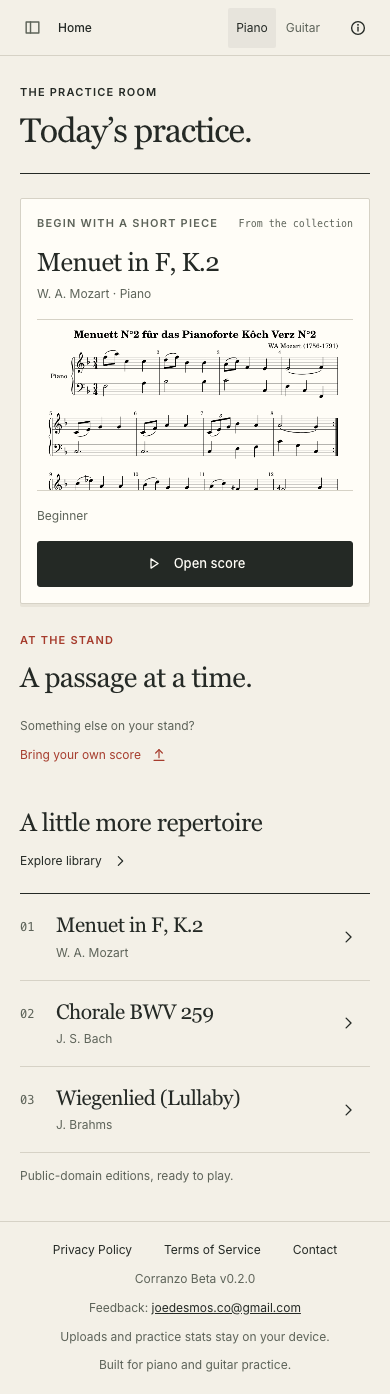
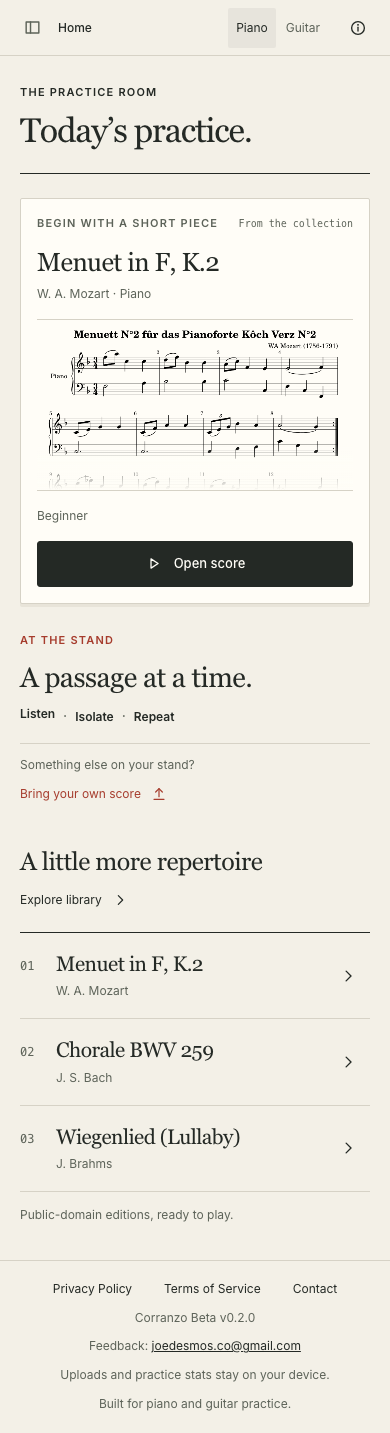
Polish Corranzo musician UI: journal hierarchy, ruled selects, mobile stand, excerpt crop, listening cues
Final visual critique pass above ba66f1ba5c. No redesign, no features.
See docs/musician-ui/POLISH.md for the full critique record.

(cherry picked from commit 590ecb4efd959725ccec05b6faa5fecf5dba2b7c)

diff --git a/src/components/profile/ProfileView.jsx b/src/components/profile/ProfileView.jsx
@@ -12,6 +12,9 @@ import ManualPracticeLog from './ManualPracticeLog.jsx'
 
 function formatDuration(seconds) {
   const totalSeconds = Math.max(0, Math.floor(Number(seconds) || 0))
+  if (totalSeconds <= 0) {
+    return '—'
+  }
   if (totalSeconds < 60) {
     return `${totalSeconds}s`
   }
@@ -40,10 +43,17 @@ function formatDate(timestamp) {
 }
 
 function StatCard({ label, value }) {
+  // Placeholder values ("None yet", "—") are quiet by design: an empty
+  // journal should invite the single Start timer action, not headline absence.
+  const isPlaceholder = value === 'None yet' || value === '—'
   return (
     <div className="profile-stat">
       <span className="profile-stat__label">{label}</span>
-      <span className="profile-stat__value">{value}</span>
+      <span
+        className={`profile-stat__value${isPlaceholder ? ' profile-stat__value--placeholder' : ''}`}
+      >
+        {value}
+      </span>
     </div>
   )
 }
@@ -168,7 +178,7 @@ export default function ProfileView() {
         />
         <StatCard
           label="Sessions you’ve logged"
-          value={viewStats.manualSessionsCompleted ?? 0}
+          value={(viewStats.manualSessionsCompleted ?? 0) > 0 ? viewStats.manualSessionsCompleted : '—'}
         />
       </div>
 
@@ -223,17 +233,19 @@ export default function ProfileView() {
 
       <footer className="profile-footer">
         <p>Your practice journal stays in this browser. Clearing browser data removes it.</p>
-        <button
-          type="button"
-          className="profile-footer__reset"
-          onClick={() => {
-            if (window.confirm('Clear all local practice stats? This cannot be undone.')) {
-              resetAllStats()
-            }
-          }}
-        >
-          Clear stats
-        </button>
+        {hasPieceActivity || hasManualHistory || (viewStats.autoPracticeSeconds ?? 0) > 0 ? (
+          <button
+            type="button"
+            className="profile-footer__reset"
+            onClick={() => {
+              if (window.confirm('Clear all local practice stats? This cannot be undone.')) {
+                resetAllStats()
+              }
+            }}
+          >
+            Clear stats
+          </button>
+        ) : null}
       </footer>
     </main>
   )

diff --git a/src/components/home/home.css b/src/components/home/home.css
@@ -12,6 +12,9 @@
 .cz-home__work h2 { font: 400 clamp(26px, 3vw, 38px)/1.12 var(--cz-font-edition); letter-spacing: -.025em; margin: 0; overflow-wrap: anywhere; }
 .cz-home__work p { font-size: 12px; color: var(--cz-sheet-muted); margin: 8px 0 0; }
 .cz-home__score-stage { height: 212px; position: relative; overflow: hidden; margin: 0 24px; border-block: 1px solid var(--cz-sheet-line); }
+/* The excerpt is cropped by design; a soft falloff at the cut keeps the
+sliced system from reading as a rendering accident. Solid color only. */
+.cz-home__score-stage::after { content: ''; position: absolute; left: 0; right: 0; bottom: 0; height: 46px; background: linear-gradient(to bottom, transparent, var(--cz-sheet-raised)); pointer-events: none; }
 .cz-score-cover { position: absolute; width: 100%; inset: 0 0 auto; pointer-events: none; }
 .cz-score-cover canvas { width: 100% !important; height: auto !important; mix-blend-mode: multiply; }
 .cz-score-cover .react-pdf__Page { background: transparent !important; }
@@ -47,7 +50,14 @@
   .cz-home__stand-footer .cz-collection-button { width: 100%; }
   .cz-home__margin { padding: 0; }
   .cz-home__margin h2 { max-width: none; margin-bottom: 12px; }
-  .cz-home__practice-prompts { display: none; }
-  .cz-home__bring { margin-top: 0; border: 0; }
+  /* Narrow screens keep the three working verbs as one quiet line instead of
+  hiding the list and orphaning its heading above the import link. */
+  .cz-home__practice-prompts { display: flex; gap: 8px; padding: 0; border-left: 0; }
+  .cz-home__practice-prompts li + li { margin-top: 0; }
+  .cz-home__practice-prompts li { display: flex; align-items: baseline; gap: 8px; }
+  .cz-home__practice-prompts li + li::before { content: '·'; color: var(--cz-sheet-muted); }
+  .cz-home__practice-prompts span { font-size: 12px; }
+  .cz-home__practice-prompts p { display: none; }
+  .cz-home__bring { margin-top: 16px; border-top: 1px solid var(--cz-sheet-line); padding-top: 12px; }
   .cz-home__section-heading { align-items: start; flex-direction: column; gap: 4px; }
 }

diff --git a/src/styles/collection.css b/src/styles/collection.css
@@ -94,6 +94,36 @@
   .cz-shell[data-view='library'] .practice-library__filters { justify-content: start; }
 }
 .cz-shell[data-view='library'] :is(.multi-upload__cta, .upload-btn--practice) { background: var(--cz-ink); color: var(--cz-sheet-raised); }
+
+/* Single-selects on paper use the same ruled choice language as the library
+tabs: one shared selection idiom per surface instead of nested pill boxes
+competing with tab underlines. Pill boxes stay on the dark desk. */
+.cz-shell:is([data-view='home'], [data-view='library'], [data-view='import'], [data-view='profile'], [data-view='settings']) :is(.cz-segmented, .cz-settings .instrument-selector) {
+  gap: 20px;
+  padding: 0;
+  border: 0;
+  border-bottom: 1px solid var(--cz-sheet-line);
+  border-radius: 0;
+  background: transparent;
+}
+.cz-shell:is([data-view='home'], [data-view='library'], [data-view='import'], [data-view='profile'], [data-view='settings']) :is(.cz-segmented__option, .cz-settings .instrument-selector__option) {
+  min-height: 44px;
+  padding: 0 2px 10px;
+  border: 0;
+  border-bottom: 2px solid transparent;
+  border-radius: 0;
+  background: transparent;
+  font-weight: 500;
+}
+.cz-shell:is([data-view='home'], [data-view='library'], [data-view='import'], [data-view='profile'], [data-view='settings']) :is(.cz-segmented__option[aria-pressed='true'], .cz-settings .instrument-selector__option--active) {
+  border-bottom-color: var(--cz-vermilion);
+  background: transparent;
+  color: var(--cz-ink);
+}
+.cz-shell:is([data-view='home'], [data-view='library'], [data-view='import'], [data-view='profile'], [data-view='settings']) :is(.cz-segmented__option:hover:not(:disabled):not([aria-pressed='true']), .cz-settings .instrument-selector__option:hover) {
+  background: transparent;
+  color: var(--cz-vermilion);
+}
 .cz-shell[data-view='library'] .upload-btn--practice:hover { background: var(--cz-ink-raised); color: var(--cz-sheet-raised); }
 
 /* Final shell polish: resilient titles, targets and restrained saved-score states. */

diff --git a/src/components/practice/VisualPracticeView.jsx b/src/components/practice/VisualPracticeView.jsx
@@ -444,6 +444,16 @@ function describeTargetNotes(targetGroup, strings, tabPositions, instrumentId = 
     .join(' + ')
 }
 
+/**
+ * Preview mode is a listening cue, not an instruction: "Play both notes
+ * together" becomes "Both notes together". Stripping the verb without
+ * recapitalizing left a lowercase fragment that read like a debug string.
+ */
+function toListeningCue(label) {
+  const cue = String(label ?? '').replace(/^Play /, '')
+  return cue ? cue.charAt(0).toUpperCase() + cue.slice(1) : cue
+}
+
 const VisualTargetHeader = memo(function VisualTargetHeader({
   targetGroup,
   targetIndex,
@@ -492,7 +502,7 @@ const VisualTargetHeader = memo(function VisualTargetHeader({
         {isPreview ? 'Listen for' : isWaitForYou ? 'Play this' : 'Next up'}
       </span>
       <strong className="visual-practice__target-notes">
-        {isPreview ? describeTargetNotes(targetGroup, strings, tabPositions, instrumentId).replace(/^Play /, '') : describeTargetNotes(targetGroup, strings, tabPositions, instrumentId)}
+        {isPreview ? toListeningCue(describeTargetNotes(targetGroup, strings, tabPositions, instrumentId)) : describeTargetNotes(targetGroup, strings, tabPositions, instrumentId)}
         {targetGroup.isChord && micChordSequence ? ' (one at a time)' : ''}
       </strong>
       <span className="visual-practice__target-meta">

diff --git a/src/components/LibraryPanel.jsx b/src/components/LibraryPanel.jsx
@@ -117,7 +117,9 @@ export default function LibraryPanel({
         <span className="cz-edition-label">Corranzo / Library</span>
         <h1 className="library-panel__tagline">{selectedTab === LIBRARY_TABS.PRACTICE ? 'Repertoire.' : 'Your scores.'}</h1>
         <p className="library-panel__browser-hint" role="note">
-          Studies, familiar pieces, and something to grow into.
+          {selectedTab === LIBRARY_TABS.PRACTICE
+            ? 'Studies, familiar pieces, and something to grow into.'
+            : `Imported PDFs for ${activeInstrument.label.toLowerCase()}, kept on this device.`}
         </p>
       </header>
 
@@ -241,7 +243,7 @@ export default function LibraryPanel({
           <div className="practice-library__grid library-panel__uploads-grid">
             <article className="practice-piece-card practice-piece-card--add-files">
               <div className="practice-piece-card__main">
-                <p className="practice-piece-card__meta">Your music</p>
+                <p className="practice-piece-card__meta">{activeInstrument.label} · PDF</p>
                 <h3 className="practice-piece-card__title">Add to your repertoire.</h3>
                 <p className="practice-piece-card__teaches">Choose a PDF. We’ll help you get it ready to play.</p>
               </div>

diff --git a/src/components/shell/SettingsView.jsx b/src/components/shell/SettingsView.jsx
@@ -73,20 +73,9 @@ export default function SettingsView({
           </Button>
         </Panel>
 
-        <Panel title="About" headingLevel={2} sub="Corranzo is local-first. There is no account and nothing uploads.">
+        <Panel title="About" headingLevel={2} sub="Corranzo is local-first. There is no account and nothing uploads. Legal notes live in the page footer.">
           <div className="cz-settings__actions">
             <FeedbackLink label="Email feedback" />
-            <span className="cz-settings__legal">
-              <Button variant="ghost" size="sm" onClick={() => onNavigate('privacy')}>
-                Privacy
-              </Button>
-              <Button variant="ghost" size="sm" onClick={() => onNavigate('terms')}>
-                Terms
-              </Button>
-              <Button variant="ghost" size="sm" onClick={() => onNavigate('contact')}>
-                Contact
-              </Button>
-            </span>
           </div>
         </Panel>
       </div>

diff --git a/src/styles/import.css b/src/styles/import.css
@@ -26,6 +26,9 @@
 .score-import-how strong { display: block; font-size: 14px; font-weight: 500; color: var(--cz-ink); margin-bottom: 3px; }
 .score-import-empty { padding: 24px 0 32px; }
 .score-import :is(.score-import-empty, .score-import-processing, .score-import-ready, .score-import-message) h2 { font: 400 33px/1.15 var(--cz-font-edition); letter-spacing: -.025em; margin: 12px 0 16px; }
+/* Guidance stays subordinate to the page's single h1. Copy unchanged. Must
+follow the group rule above: equal specificity, later source order wins. */
+.score-import .score-import-empty h2 { font-size: 25px; }
 .score-import-empty p:not(.cz-edition-label) { max-width: 340px; font-size: 14px; color: var(--cz-sheet-muted); }
 .score-import-empty p:last-child { margin-top: 28px; font-size: 12px; }
 .score-import-advanced, .score-import-diagnostics { border-top: 1px solid var(--cz-sheet-line); margin-top: 28px; padding-top: 10px; font-size: 12px; color: var(--cz-sheet-muted); }

diff --git a/src/components/shell/shell.css b/src/components/shell/shell.css
@@ -68,7 +68,6 @@
 .cz-settings__label { margin: 0; font-weight: 500; color: var(--sf-text-primary); }
 .cz-settings__hint { margin: 4px 0 0; font-size: 13px; color: var(--sf-text-muted); }
 .cz-settings__actions { display: flex; align-items: center; justify-content: space-between; gap: 16px; flex-wrap: wrap; }
-.cz-settings__legal { display: flex; flex-wrap: wrap; gap: 4px; }
 .cz-settings :is(.cz-btn, .cz-segmented__option, .instrument-selector__option) { min-height: 44px; }
 .cz-settings .feedback-link { color: var(--cz-vermilion); }
 

diff --git a/src/styles/profile.css b/src/styles/profile.css
@@ -97,6 +97,15 @@
 .profile-stat__value {
   color: var(--sf-text-primary);
   font: 400 24px/1.3 var(--cz-font-edition);
+  font-variant-numeric: tabular-nums;
+}
+
+.profile-stat__value--placeholder {
+  font-family: var(--cz-font-sans);
+  font-size: 14px;
+  font-weight: 400;
+  letter-spacing: 0;
+  color: var(--sf-text-faint);
 }
 
 .profile-empty {

diff --git a/docs/musician-ui/POLISH.md b/docs/musician-ui/POLISH.md
@@ -1,0 +1,130 @@
+# Corranzo polish pass — final visual critique
+
+Follow-up to REPORT.md, on `codex/corranzo-musician-ui-redesign` above `ba66f1ba5c`.
+No redesign, no feature changes, no new visual system. Targeted fixes only.
+Guitar and main untouched; nothing merged.
+
+## 1. What was already strong
+
+- **Repertoire rows** (Library + Home collection): ruled, mono-numbered, serif work
+  titles. Distinctive without the logo. Untouched.
+- **Practice desk**: dark, score-first, tempo as a printed mark, live bar
+  reference, restrained loop bracket. Untouched except one copy fragment (below).
+- **Tempo dialog**: large BPM readout, 50/75/100% steps, honest copy. Untouched.
+- **Journal with notes**: indented session notes with bar references read like a
+  real practice diary. Untouched.
+- **Restraint overall**: no fake paper, no decorative notation, no invented
+  statistics. Nothing added.
+
+## 2. Remaining AI-looking issues found
+
+1. Note-guide Preview header rendered `both notes together` — a lowercase
+   fragment left by stripping `Play ` from the instruction string. Read like a
+   debug string, not a listening cue.
+2. Uploads tab kept the library lede (`Studies, familiar pieces, and something
+   to grow into.`) and labeled its import card `Your music`, duplicating the
+   section eyebrow. Wrong context, triple naming.
+3. Empty journal headlined absence twice (`None yet` in large serif, twice),
+   rendered zero totals as `0s`/`0` (reads `OS`/`O` in serif), and showed a
+   `Clear stats` button with nothing to clear. Several elements shouted equally;
+   no single focal action.
+4. Settings About repeated the global footer's Privacy/Terms/Contact links a
+   few pixels above the global footer.
+5. Settings `Dark/Light` and `Piano/Guitar` selects used nested pill boxes that
+   competed with the ruled tab language used everywhere else on paper.
+6. Home on phones hid the practice prompts but kept their heading, orphaning
+   `A passage at a time.` above a lone import link.
+7. Home featured excerpt sheared mid-system with a hard edge, reading as a
+   rendering accident rather than an intentional crop.
+8. Import paired two large serif headlines (`Bring your score.` 46px + `A clear
+   page. A better start.` 33px) that competed instead of guide.
+
+## 3. Exact targeted changes made
+
+- `src/components/practice/VisualPracticeView.jsx` — new `toListeningCue`
+  helper: strip `Play ` then recapitalize (`Both notes together`). Pedagogy
+  instruction strings unchanged; `pianoPracticeInstructions` tests unaffected.
+- `src/components/LibraryPanel.jsx` — tab-specific hero hint for Uploads
+  (`Imported PDFs for {instrument}, kept on this device.`); import-card meta
+  `Your music` becomes `{Instrument} · PDF`.
+- `src/components/profile/ProfileView.jsx` — `formatDuration(0)` renders `—`;
+  zero session count renders `—`; `StatCard` demotes `None yet`/`—` to quiet
+  14px sans (`profile-stat__value--placeholder`); `Clear stats` only renders
+  when any history exists.
+- `src/styles/profile.css` — placeholder stat style + tabular figures for stat
+  values (durations are timing, so tabular numerals fit the type system).
+- `src/components/shell/SettingsView.jsx` — removed in-page legal button row;
+  About sub now points at the page footer. `Button` import still used.
+- `src/components/shell/shell.css` — removed the now-unused
+  `.cz-settings__legal` rule.
+- `src/styles/collection.css` — paper-surface single-selects (`.cz-segmented`,
+  Settings `.instrument-selector`) use the ruled tab idiom: no boxes, 2px
+  vermilion underline for the choice. Pill boxes remain on the dark desk.
+  `SegmentedControl` is only used in Settings (+ dev sandbox), so scope is safe.
+- `src/components/home/home.css` — on phones the prompts collapse to one quiet
+  line (`Listen · Isolate · Repeat`) instead of disappearing; excerpt stage gets
+  a solid-color falloff so the crop reads as intentional. No gradients
+  introduced elsewhere; the fade is a paper-to-paper dissolve on one element.
+- `src/styles/import.css` — import guidance `h2` demoted to 25px (copy
+  unchanged; rule placed after the shared group rule it refines).
+
+## 4. Deliberately left unchanged
+
+- Practice transport/dock: mode tabs vs Play have a working hierarchy; loop and
+  completion states are honest. No restyle.
+- Library Practice-tab header (`Piano` eyebrow + `Practice Library` title):
+  real hierarchy (instrument scope + toolbar anchor), not duplication.
+- Dual footers/content, header Import duplication, sidebar numbering, global
+  footer email: honest beta chrome, out of scope for a polish pass.
+- Advanced/diagnostic accordions: denser legacy layouts, acknowledged in
+  REPORT.md; restyling them would risk behavior and is not polish.
+- Phone dense-score readability: zoom remains the honest answer; nothing shrunk.
+- 7 pre-existing test failures on the `ba66f1ba5c` baseline (stale assertions in
+  `betaOnboarding`, `designPhaseA` contrast, `ipadLayout` profile padding,
+  `launchReadiness` Progress naming, `minimalAudioUi`, `mobileOverlays`,
+  `uxPolishSprint` demo copy) were left failing as found — fixing stale
+  contracts is not this pass.
+
+## 5. Strongest final screens
+
+Repertoire (library-1440), practice desk (practice-1440), tempo dialog,
+journal with notes.
+
+## 6. Weakest remaining screen
+
+Empty journal (history-1440): materially calmer now (quiet placeholders,
+single `Start timer` focal), but it still explains two tracking modes before
+the user has any history. Acceptable honesty; a further merge of the two
+empty panels would be restructuring, not polish.
+
+## 7. Responsive / accessibility
+
+- Review scripts re-ran at 390–1920px: no horizontal overflow anywhere.
+- Axe: 21/21 production checks, 17/17 workflow checks, 4/4 detail checks with
+  zero violations (one workflow run flaked on a viewport-transition timeout;
+  clean re-run passed 7/7 — script timing, not product).
+- Reduced-motion, dialog focus restore, 44px targets, keyboard tabs unchanged
+  and re-verified by the scripts.
+
+## 8. Build / test
+
+- `npm run build` passes (unchanged chunk-size warning only).
+- Targeted suites: 118/119 pass across shell, library, import, practice,
+  history, session, annotation and instruction tests. The single failure is the
+  pre-existing `designPhaseA` contrast assertion, failing identically on the
+  `ba66f1ba5c` baseline.
+- Full suite: same 7 pre-existing baseline failures, no new failures.
+- Changed-file ESLint output is identical to baseline (pre-existing findings in
+  `VisualPracticeView.jsx` untouched); `git diff --check` passes.
+
+## 9. Final screenshots
+
+`docs/musician-ui/after/` regenerated for every surface whose pixels changed
+(Home, History, Import, Uploads, Practice modes/dialogs, Settings, Note guide);
+unchanged states are byte-identical and intentionally unmodified.
+
+## 10. Integration readiness
+
+Yes. The visual system is coherent, restrained, and musician-led; the polish
+diff is small, reviewed pixel-by-pixel above, and fully validated. Ready for
+integration at the maintainer's discretion. Not merged here, per instructions.
